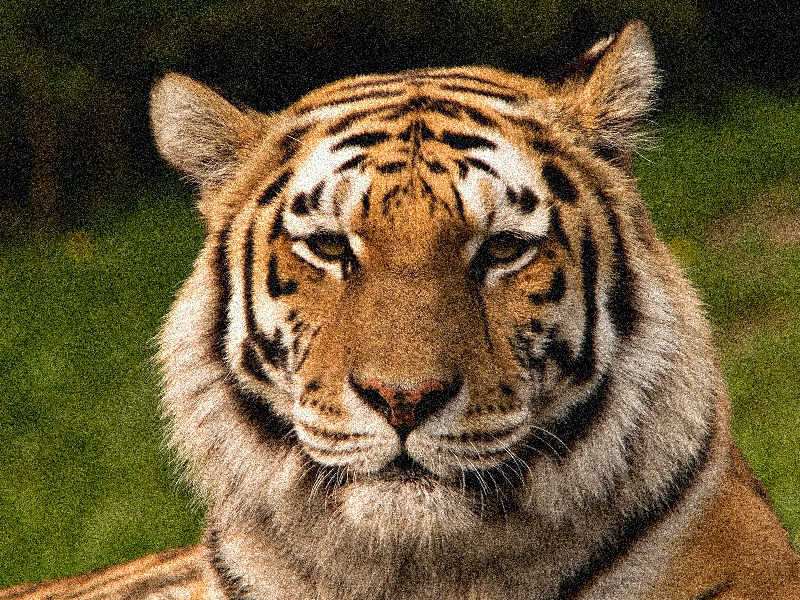
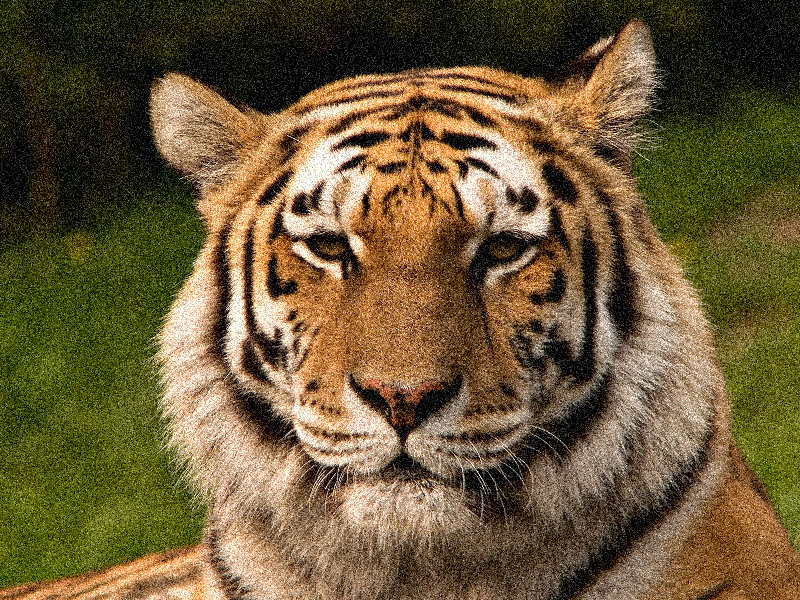
5-й cummit

diff --git a/stegos.py b/stegos.py
@@ -1,7 +1,3 @@
-def btb(bool_con):
-    return 1 if bool_con else 0
-
-
 def nzb_insert(contan, mark):
 
     new_cont = contan.copy()
@@ -26,20 +22,23 @@ def nzb_extract(container):
 def nzb_insert_secured(contan, mark, key):
 
     import random
-    random.seed(key)
+    import numpy as np
 
     new_cont = contan.copy()
     st_i = len(mark)
     st_j = len(mark[0])
 
+    random.seed(key)
+    key_mask = np.array([[random.getrandbits(1)
+                          for j in range(new_cont.shape[1])] for i in range(new_cont.shape[0])]).astype(np.uint8)
+
     for i in range(len(contan) // st_i):
         for j in range(len(contan[0]) // st_j):
 
-            key_mask = [[random.getrandbits(1) for j in range(st_j)] for i in range(st_i)]
-
             old_bit = new_cont[i*st_i:(i+1)*st_i, j*st_j:(j+1)*st_j] % 2
             new_cont[i*st_i:(i+1)*st_i, j*st_j:(j+1)*st_j] -= \
-                old_bit[:, :] - (old_bit[:, :] + mark[:, :] + key_mask + j + i) % 2
+                old_bit[:, :] - (key_mask[i*st_i:(i+1)*st_i, j*st_j:(j+1)*st_j]
+                                 + mark[:, :] + j + i) % 2
 
     return new_cont
 
@@ -77,13 +76,24 @@ def extract_dwm(rgb_container):
 
     return dwm_e
 
-def insert_dwm_wkey(rgb_container, dwm):
+
+def insert_dwm_wkey(rgb_container, dwm, key):
     from colorsystem.bt709 import to_yuv, to_rgb
     from skimage import img_as_float, img_as_ubyte
     import numpy as np
 
     cont_yuv = to_yuv(img_as_float(rgb_container))
-    cont_yuv[:, :, 0] = img_as_float(nzb_insert(img_as_ubyte(cont_yuv[:, :, 0]), dwm))
+    cont_yuv[:, :, 0] = img_as_float(nzb_insert_secured(img_as_ubyte(cont_yuv[:, :, 0]), dwm, key))
     cont_rgb = img_as_ubyte(np.clip(to_rgb(cont_yuv), 0.0, 1.0))
 
     return cont_rgb
+
+
+def extract_dwm_wkey(rgb_container, key):
+    from colorsystem.bt709 import to_yuv
+    from skimage import img_as_float, img_as_ubyte
+
+    cont_yuv = to_yuv(img_as_float(rgb_container))
+    dwm_e = nzb_extract_secured(img_as_ubyte(cont_yuv[:, :, 0]), key)
+
+    return dwm_e

diff --git a/my-tests.py b/my-tests.py
@@ -4,7 +4,7 @@ import numpy as np
 
 from filters import rng_filter_rgb, median, erosion, dilatation, \
     convolution_rgb, noising_by_yuv, noising_rgb
-from stegos import insert_dwm, extract_dwm
+from stegos import insert_dwm, extract_dwm, insert_dwm_wkey, extract_dwm_wkey
 
 # TEST 1 : simple inception
 #
@@ -13,6 +13,24 @@ from stegos import insert_dwm, extract_dwm
 # imsave('cont-with-dwm.png', im_with_dwm)
 # again_img = imread('cont-with-dwm.png')
 # dwm_layer = extract_dwm(again_img)
+# imshow(dwm_layer)
+# plt.show()
+
+
+# TEST 2: inception with key
+# image, dwm = imread('cont.png'), imread('dwm2.bmp')
+# key = 'hello_world'
+# wrong_key = 'bye_bye'
+#
+# im_with_dwm = insert_dwm_wkey(image, dwm, key)
+# imsave('cont-with-dwm.png', im_with_dwm)
+# again_img = imread('cont-with-dwm.png')
+# dwm_layer = extract_dwm_wkey(again_img, key)
+# imshow(dwm_layer)
+# plt.show()
+# wr_dwm_layer = extract_dwm_wkey(again_img, wrong_key)
+# imshow(wr_dwm_layer)
+# plt.show()
 
 
 image = imread('tiger-color.png')
